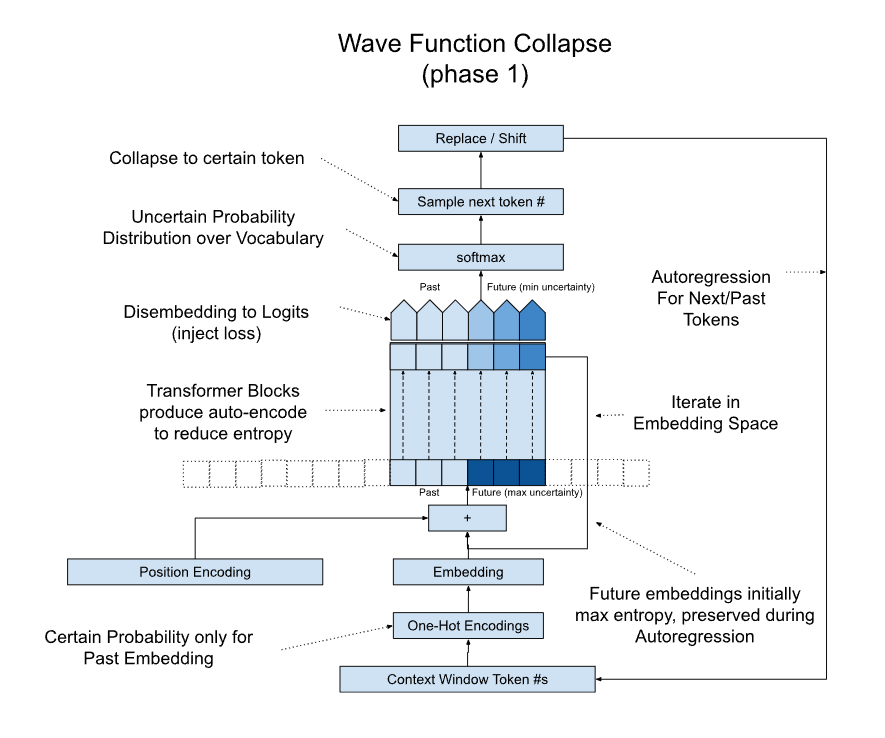
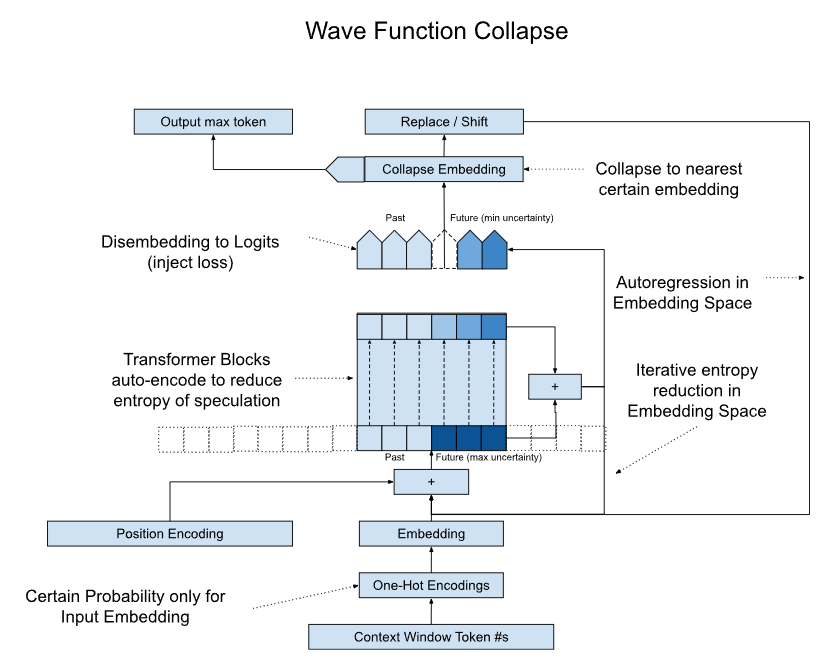
most of the first draft idea writeup

diff --git a/README.md b/README.md
@@ -7,9 +7,163 @@ Wave Function Collapse (WFC) is an idea I have for how to build langauge models 
 
 The goal of WFC is to be used for generative AI, similar to popular transformer based models such as ChatGPT. The concept isn't specific to text LLMs, however text is a familar and a relatively low cost way to validate it.  
 
-The WFC approach is a bit different from your typical decoder-only LLM in terms of architecture, training, inference, and loss, but it's compatible with the same training sets and makes use of standard Transformer blocks.  Before we get into the details of this idea, let's do a quick review of a typical decoder-only LLM model:
+The WFC approach is a bit different from your typical decoder-only LLM in terms of architecture, training, inference, and loss, but it's compatible with the same training sets and makes use of standard Transformer blocks.  
+
+## Understanding Decoder-only LLMs
+Before we get into the details of this idea, let's do a quick review of a typical decoder-only LLM model:
 
 ![decoder LLM diagram](assets/decoderLLM_diagram.png)
 
+I'll assume you're already familiar with LLMs, and just point out a few relevant observations:
+
+- The job of the Transformer blocks is to transform each embedding into the next embedding
+  + at training this trains on all content lengths in parallel
+  + at inference only the right most disembedding head is used to get the next token
+  + embeddings are transfromed from present to next in one go (through several serial blocks)
+- The context window (typically much longer than shown), represents the most recent 'past' tokens only
+  + there may be additional past tokens that are too far back to fit in the context window
+  + as you append/shift you can think of the window as sliding along the timeline to the right
+- Autoregression is happening in 'token space'
+  + even though the output of the disembedding may be a distribution over our vocab, these nuances are discarded.
+  + while this looks horribly inefficient, if you add a KV cache, then most of the work done by the transformer blocks is reused across autoregression steps.
+
+If we zoom out from the details a bit we see that there are 4 'encoding spaces' that represent our input data, as well as several transformations between them:
+![decoder LLM diagram](assets/decoderLLM_spaces.png)
+
+During inference, we loop through these states in a clockwise fashion
+- Starting with text
+- This gets tokenized via something like byte pair encoding (for example)
+- We one-hot encode the tokens to move into probability space
+- We then embed these probabilities to get a sequence of points in embedding space
+- The transformer blocks do predition in embedding space
+- Then we convert the next embedding to a probability distribution via the disembeding network
+- Then we sample this distribution to get to a token
+- And finally we decode this token back into text and output to the user
+
+It's important to recognize a few things:
+
+1) The blue transformations are learned, while the other red transformations are simple procedures
+2) Each autoregression step, we do a full 'lap' around the various spaces
+3) The transformations between spaces are sometimes lossy
+4) Each space is convenient for a specific purpose
+  * Text Space: useful for human input/output
+    - "Hello, my name is Brandon"
+  * Token Space: descrete sequence (integers) good for training storage and as a first step towards capturing patterns in the language (common text sequences become single tokens)
+    - [0, 212, 43, 9192, 156, 21, 1882, 500]
+  * Probabily Space: more expressive than tokens because they can represent both descrete tokens in our vocabulary (one hot encoded) as well as distributions of multiple tokens that can be sampled to pick a descrete token.  However each token is represented by many thousands of dimensions (vocabulary size), so this is more of an intermediate represenatation.
+    - []
+  * Embedding Space: more compressed and semantically meaningful than Probability Space.  This is where all of the work of the Transformers is done.
+    - ![wfc diagram](assets/embedding_space.png)
+## How might we improve upon this?
+First of all, let's set some stakes in the ground.  I don't want to change the 4 spaces above, or make changes to the way Transformers work.  These are too established/proven and I would like to leveraging future research/industry improvements.  
+
+Instead, this idea focuses on making relatively minor changes to the operations between these spaces, guided by some inights gleened from a loose analogy to Quantum Mechanics.  The goal of these changes is to end up with a system that is similar to above, only better in terms of accuracy, compute, memory, scalability, and/or reasoning & planning.
+
+Before I get into the details of the analogy let's look at some things in the model above that we could possibly improve upon:
+
+1. The Transformer Blocks are trying to transform from an embedding to the next embedding using many sequential Blocks with independent weights (perhaps refinement between layers).
+    - rather than via an interative refinement process in embedding space (like an ODE).
+    - this means it's the same cost no matter how complex the problem is.  
+    - "Birds of a feather flock..." takes just as much compute as "When I opened the old book, I discovered..."
+1. The autoregression is done in token space, requiring multiple lossy transformations
+    - if we were able to auto-regress in embedding space, we may be able to preserve more nuance
+    - consider that multiple points in embedding space can map to the same probability distribution and that different probability distributions can be sampled resulting in the same token.
+    - the conversion to/from tokens is akin to quantizing the whole embedding 'volume' down to just the N points within the volume that correspond to tokens in the vocabulary. 
+1. It's just spitting out the first thing that comes to mind, with no 'thinking ahead'.
+    - Speculating multiple future tokens is expensive in this model because of the buterfly effect.
+    - This limits our opporunity for reasoning (stearing towards preferred futures)
+    - If we could speculate even with low confidence, it could potentially improve accuracy.
+
+![many worlds](assets/many_worlds.png)
+
+## Understanding Wave Function Collapse
+Now let's take a look at the diagram for Wave Function Collapse, and then I'll discuss how it incorporates these opportunities, and I'll explain some of the insights that led to it.
 
 ![wfc diagram](assets/wavefunctioncollapse_diagram.png)
+
+It starts out identical to a standard decoder LLM, however the Transformer is a bit different.
+1. The input embeddings are divided into two segments.
+    - The "Past" segement represents embeddings that have already been input/output by/to the users.
+    - The "Future" segment represents a linear sequence (not tree) of speculated future embeddings.
+      + Initialized to embedding from a max-entropy probability distribution (anything is possible)
+    - Note that we aren't speculating auto-regressively. The speculation is computed in parallel.
+1. Rather than the Transformer Blocks predicting the next token, they are simply auto-encoding
+    - Like an encoder-style Masked Language Model (MLM), only we're going to generate text autoregressively from it.
+    - It learns to minimize the entropy (uncertainty) in the input tokens
+    - It shouldn't collapse because it's trained on the zero-entropy one-hot encodings rather than explicitly minimizing loss
+    - The output is the same as input for past tokens, but for future tokens it squeezes as much entropy out as it can, giving a sequence that represents the probability distributions of the future timesteps.
+1. We don't have to use a causal mask, however it is compatible with one to limit speculation distance.
+    - it is desirable that past and future embeddings attend to each other, we can alway pad with more future embeddings
+    - it is expected that the entropy of the future embeddings will grow the further you speculate
+        - this 'butterfly effect' is reflected in the uncertainty
+    - tbd, if it's better to 'pin' past tokens to their zero-entropy output vs. allowing the past to drift (be recontextualized) as future embeddings collapse.
+1. Transformer Blocks are actually computing a velocity, which gets added back to the input iteratively
+    - Similar to an iterative physics solver
+    - This isn't a core part of the idea, however since we switched to an entropy-minimizing autoencoder, it means it's easy for an iterative solver to detect when it's converged (zero velocity/change) and early exit.  Now the cost can be proportional to the complexity of the problem.
+
+The outputs of the Transformer Blocks are initially handled similar to the decoder-LLM, during training loss in injected into each output via the disembedding projection, during inference things are a little different.
+
+1. Rather than immediately projecting into Probability Space, we want to "collapse" one or more uncertain future embeddings into a certain (zero-entropy) embedding.
+    - This allows us to autoregress in embedding space
+    - The collapse of uncertainty about the future is how the past is minted in this system.  The collapsed embedding becomes part of the past segment in the context for the next autoregressive step.
+    - I'll explain more of the details of this block after the analogy below.
+1. We then convert this collapsed embedding into a token that can be output as text
+    - This is only for the benifit of a human user, the output token/text is not used by the system
+1. The collapsed embedding replaces the uncertain embedding
+    - Then we continue reducing entropy like before and the rest of the context will respond to this collapse sort of like a vibration in a string
+    - Autoregression is basically the same 'loop' we only take a slight detour to collapse, output, replace
+    - Note that we're NOT starting from scratch each time we autoregress, the whole context window,including the speculated future tokens are already nearly-converged with minimal entropy, and that carries over to the next cycle losslessly.
+1. We don't have to collapse JUST the first future embedding
+    - we can explore strategies like collapsing embeddings below some entropy threshold
+    - we can even collapse (or partially collapse) future embeddings non-causally. The other embeddings will adjust to fill in the gaps.
+    - by continually partually-collaping the median-entropy embedding we may be able to 'draw out' the speculation horizon to some likely distant future as far into the future as needed for reasoning.
+    - Note that we don't collapse all of the future tokens in one go, that would produce mostly gibberish because of the inherent uncertainty, however that doesn't mean these embeddings aren't contributing useful information to the more-present embeddings
+
+
+![wcf diagram](assets/wfc_spaces.png)
+
+The encoding spaces remain the same, only we can see the autorecursion is done in embedding space via "Collapse" and the "Next Prediction" is replaced with "Entropy Reduction" (still a Transformer).
+
+
+## Quantum Mechanics Analogy
+
+The analogy here isn't meant to be too literal, but I find it useful to explicitly state correspondances because doing so often leads to new ideas/insights.
+
+| LLM Concept                    | Quantum Mechanics Concept     |  Why? |
+|--------------------------------|-------------------------------|--------
+| Token                          | Quantum State                 | Descrete values that can be observed
+| Logits / Probs                 | Superposition of States       | Uncertainty between one or more states
+| Embedding / Context Window     | Wave Function                 | How the uncertainty is encoded
+| Sampling                       | Measurement / Collapse        | The transition from uncertain -> certain mints
+| Attention                      | Entanglement / Coherence      | Interdependencies between multiple particles
+| Softmax                        | Uncertainty Principle         | The more certain you are of one state, the less you are of another
+| Context Window                 | Spacetime                     | Context can represent temporal (think text) of spatial (think image patches) sequences of embeddings
+| Speculation Tree               | Many Worlds Interpretation    | As you speculate out in to the future, the number of possible future timelines expands rapidly
+
+From this, you can see why I call this idea 'Wave Function Collapse', the goal of the network is to minimize the entropy in the full spacetime wavefunction.  The future embeddings represent a ensemble probability distribution over all possible futures at each layer of a specualation tree.  Once this has converged, we can advance time by taking a 'measurement' of one of the next embedding, which collapses it from a superposition of possible states into a specific state (token).  Since all of the embeddings are entangled via attention, the next embedding collapse will cause changes to the remainder of the context/wave function (possibly non-causally), which pushes the uncertanty to the right (when we shift the context left, we fill in max-entropy embeddings on the right).
+
+
+If you were to graph the entropy (uncertainty) of the context window, then the past segment on the left side of the context would be near zero entropy, and the future segement would ramp up towards the maximum entropy.
+
+This is also true for a decoder-only LLM, however they typically only predict the next embedding (one in the future) at a time, so the entropy often doesn't get very high.
+
+
+![decoder entropy](assets/decoder_entropy.png)
+
+![wfc entropy](assets/wfc_entropy.png)
+
+Notice that we're giving up some of the context window for the speculated future, however doing so may help with the accuracy of the next token (it has some think-ahead information to attend to).  In practice the future embeddings  would probably be a small fraction of the context, and most of the time the context isn't full anyways.  In either case, the number of future embeddings can be dynamically handled based on the shape of the entropy curve.  In the case where it's only 1 embedding, the graphs above would both look like the Decoder-Only LLM.
+
+![wfc collapse](assets/wfc_collapse.png)
+
+When we collapse a future embedding, we're sort of forcing a point on this graph down to zero.  The rest of the graph then re-converges to minimal entropy, which will have the effect of pushing the uncertainty 'hockey stick' over to the right (future).  I think of this like squeezing toothpaste out of a tube, or the wave of time moving into the future.
+
+
+![wfc lagrangian](assets/wfc_lagrangian.png)
+
+In quantum mechanics, there is a concept call Legrangian Mechanics that relates to the principle of least action.  Reversing the analogy can lead to new ideas related to the LLM idea.  For example, what if instead of collapsing the next token, we use some policy model to collapse something in the middle of the future segment?  The entropy-minimizing transformer would converge towards a state that tries to fill in the tokens to get you to this state.  This could allow for a more efficient binary search over possible futures to help with reasoning.
+
+
+![wfc partial](assets/wfc_partial.png)
+
+This leads to another idea of only partially collapsing some future token.  You could imagine several iterations of holding a partial collapse followed by converging on a new minimal entropy.  This could be a way to extend out the time horizon for speculation for some plausable future.
